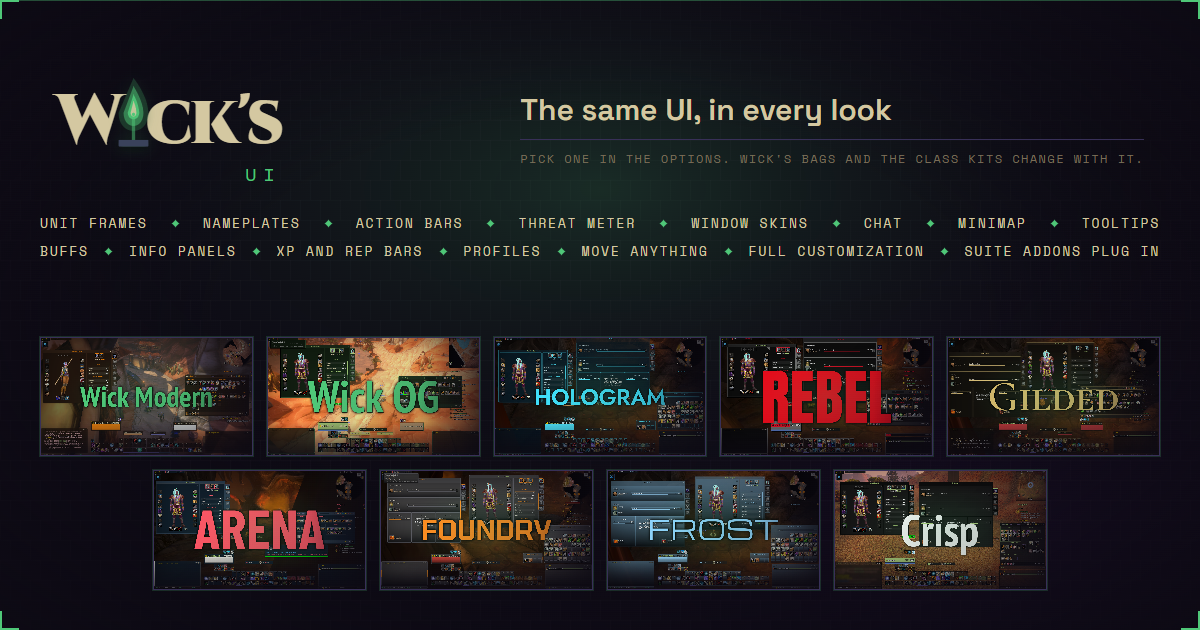
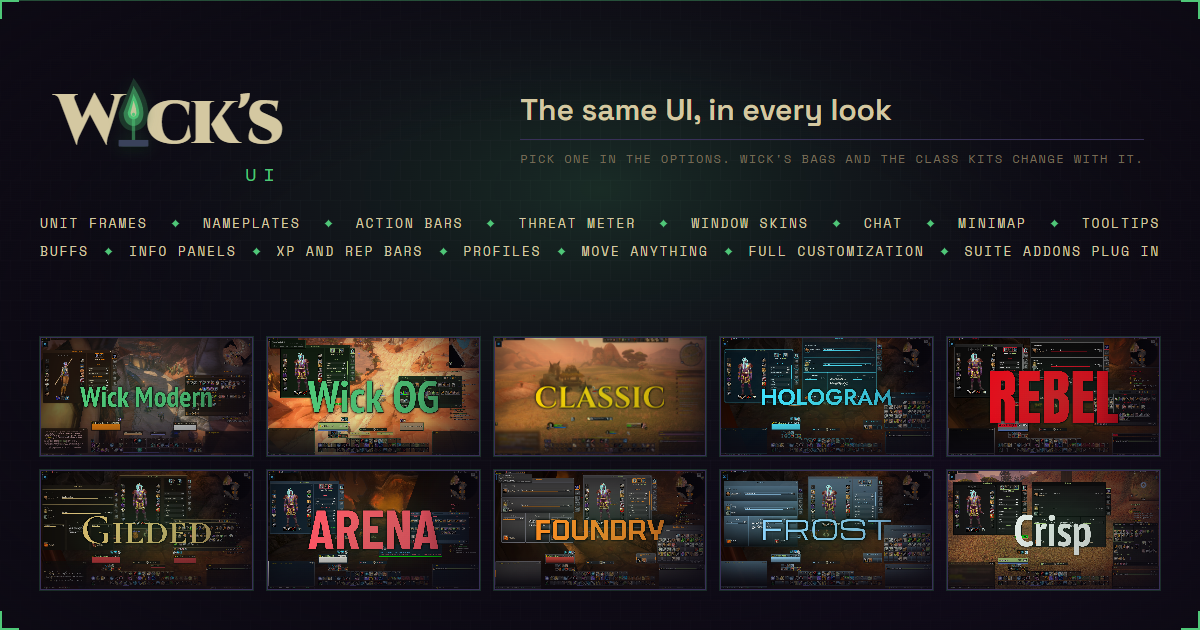
Wick's UI page: the Classic look in the switcher, ten looks
Classic sits after Wick OG with the game's gold and its blurb; the chips run five to a row. The looks card, social card and thumb are the new renders, and the counts on both pages read ten.

Changed region(s): [[0.0308, 0.5127, 0.9867, 0.9651], [0.0308, 0.9048, 0.0617, 0.9349]]

diff --git a/ui/index.html b/ui/index.html
@@ -12,17 +12,17 @@
 
 <meta property="og:type" content="website">
 <meta property="og:title" content="Wick's UI: the whole interface, in one look">
-<meta property="og:description" content="A full interface for WoW Forever. Nine looks to start from, full customization from there, and every part optional.">
+<meta property="og:description" content="A full interface for WoW Forever. Ten looks to start from, Classic among them, full customization from there, and every part optional.">
 <meta property="og:image" content="https://wicksmods.com/images/ui/social-2x.png">
 <meta property="og:image:width" content="2400">
 <meta property="og:image:height" content="1260">
-<meta property="og:image:alt" content="Wick's UI: the whole interface, in one look. Wick Modern, Rebel, Hologram and Gilded shown; nine looks, or your own.">
+<meta property="og:image:alt" content="Wick's UI: the whole interface, in one look. Wick Modern, Classic, Rebel and Hologram shown; ten looks, or your own.">
 <meta property="og:url" content="https://wicksmods.com/ui/">
 <meta property="og:site_name" content="Wick's Mods">
 <meta name="twitter:card" content="summary_large_image">
 <meta name="twitter:site" content="@wicksmods">
 <meta name="twitter:title" content="Wick's UI: the whole interface, in one look">
-<meta name="twitter:description" content="A full interface for WoW Forever. Nine looks to start from, full customization from there.">
+<meta name="twitter:description" content="A full interface for WoW Forever. Ten looks to start from, full customization from there.">
 <meta name="twitter:image" content="https://wicksmods.com/images/ui/social-2x.png">
 <meta name="theme-color" content="#0D0A14">
 
@@ -182,7 +182,7 @@
   }
   .stage-wrap { position: relative; }
   .chips {
-    display: grid; grid-template-columns: repeat(9, 1fr); gap: 8px; margin-top: 26px;
+    display: grid; grid-template-columns: repeat(5, 1fr); gap: 8px; margin-top: 26px;
   }
   .chip {
     position: relative; overflow: hidden;
@@ -370,7 +370,6 @@
     .bento { grid-template-columns: repeat(2, 1fr); }
     .tile, .tile.w3, .tile.w4 { grid-column: span 1; }
     .tile.w4 { grid-column: span 2; }
-    .chips { grid-template-columns: repeat(3, 1fr); }
     .steps { grid-template-columns: repeat(3, 1fr); row-gap: 28px; }
     .steps .rail { display: none; }
     .rules { grid-template-columns: 1fr; }
@@ -387,7 +386,7 @@
     .container, .hero, .topbar { padding-left: 16px; padding-right: 16px; }
     .wordmark { font-size: 60px; }
     .wordmark-sub { font-size: 18px; letter-spacing: 0.3em; }
-    .chips { grid-template-columns: repeat(3, 1fr); }
+    .chips { grid-template-columns: repeat(2, 1fr); }
     .chip { font-size: 15px; }
     .bento { grid-template-columns: 1fr; }
     .tile.w4 { grid-column: span 1; }
@@ -456,7 +455,7 @@
       <div class="name" id="lookName">Wick Modern</div>
       <div class="blurb" id="lookBlurb"></div>
     </div>
-    <p class="beyond"><span>Nine to start from.</span> Then change the colours, the fonts, the bar textures, the sizes, what every line of text says and where everything sits. The look you end up with is yours.</p>
+    <p class="beyond"><span>Ten to start from.</span> Then change the colours, the fonts, the bar textures, the sizes, what every line of text says and where everything sits. The look you end up with is yours.</p>
   </div>
 </section>
 
@@ -660,7 +659,7 @@
 
   <div class="steps" id="steps">
     <div class="rail"><i></i></div>
-    <div class="step" style="--i:0"><div class="dot">01</div><b>Pick a look</b><span>Any of the nine to start from. Change anything after.</span></div>
+    <div class="step" style="--i:0"><div class="dot">01</div><b>Pick a look</b><span>Any of the ten to start from. Change anything after.</span></div>
     <div class="step" style="--i:1"><div class="dot">02</div><b>Class colours</b><span>The game's own, or the Classic era set.</span></div>
     <div class="step" style="--i:2"><div class="dot">03</div><b>Scale</b><span>Pixel perfect, or the game's own.</span></div>
     <div class="step" style="--i:3"><div class="dot">04</div><b>Your bags</b><span>With Wick's Bags on, which bags B opens.</span></div>
@@ -760,6 +759,8 @@
       blurb: 'Rounded glass on a soft shadow, the Wick font, no border lines. <b>The default.</b>' },
     { id: 'og',       name: 'Wick OG',     color: '#4FC778', font: "'Cinzel', serif",
       blurb: 'The original: flat panels, a single-pixel border, fel corners.' },
+    { id: 'classic',  name: 'Classic',     color: '#FFD100', font: "'Cinzel', serif", upper: true,
+      blurb: "The classic look you love, drawn in the game's own art: its windows, buttons, bags, unit frames and nameplates. <b>Everything Wick's UI does still runs underneath.</b>" },
     { id: 'hologram', name: 'Hologram',    color: '#3FE0FF', font: "'Jost', sans-serif", upper: true,
       blurb: 'A projected display: faint glass, cut corners, a cyan outline and glow, clean geometric type with capital headings.' },
     { id: 'rebel',    name: 'Rebel',       color: '#E5091A', font: "'Anton', sans-serif", upper: true,

diff --git a/index.html b/index.html
@@ -414,7 +414,7 @@
        srcset="images/ui/looks.png 1200w, images/ui/looks-2x.png 2400w"
        sizes="(max-width: 1140px) calc(100vw - 56px), 1084px"
        width="1200" height="630"
-       alt="Wick's UI: the same interface in nine looks, Wick Modern, Wick OG, Hologram, Rebel, Gilded, Arena, Foundry, Frost and Crisp. Unit frames, nameplates, action bars, threat meter, window skins, chat, minimap, tooltips, buffs, info panels, XP and rep bars, profiles, move anything, full customization, and suite addons plug in.">
+       alt="Wick's UI: the same interface in ten looks, Wick Modern, Wick OG, Classic, Hologram, Rebel, Gilded, Arena, Foundry, Frost and Crisp. Unit frames, nameplates, action bars, threat meter, window skins, chat, minimap, tooltips, buffs, info panels, XP and rep bars, profiles, move anything, full customization, and suite addons plug in.">
   </a>
   <div class="showcase-actions">
     <a href="/ui/" class="btn primary">Take the tour &rarr;</a>
@@ -453,7 +453,7 @@
       </div>
       <div class="card-meta">
         <div class="card-name"><span class="apo">Wick's</span> UI</div>
-        <div class="card-tagline">The whole interface, in one look. Action bars, unit frames, nameplates, chat, the minimap, a threat meter and the game's own windows. Nine looks to start from, full customization from there, and every part optional.</div>
+        <div class="card-tagline">The whole interface, in one look. Action bars, unit frames, nameplates, chat, the minimap, a threat meter and the game's own windows. Ten looks to start from, Classic among them. Full customization from there, and every part optional.</div>
         <div class="card-slash">/wui</div>
         <div class="card-actions"><a href="https://www.curseforge.com/wow/addons/wicks-ui" class="card-btn cf">CurseForge</a>
           <a href="/ui/" class="card-btn">Tour</a></div>
